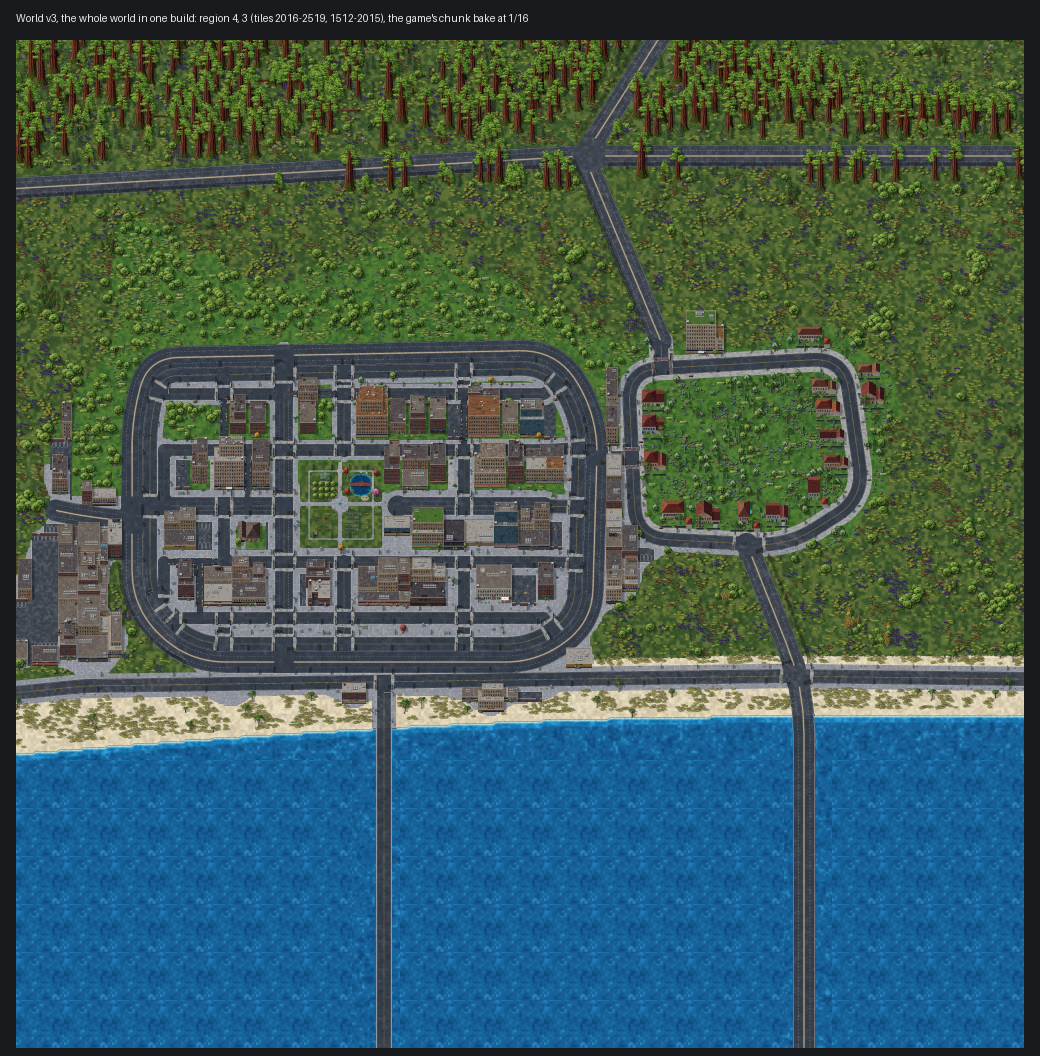
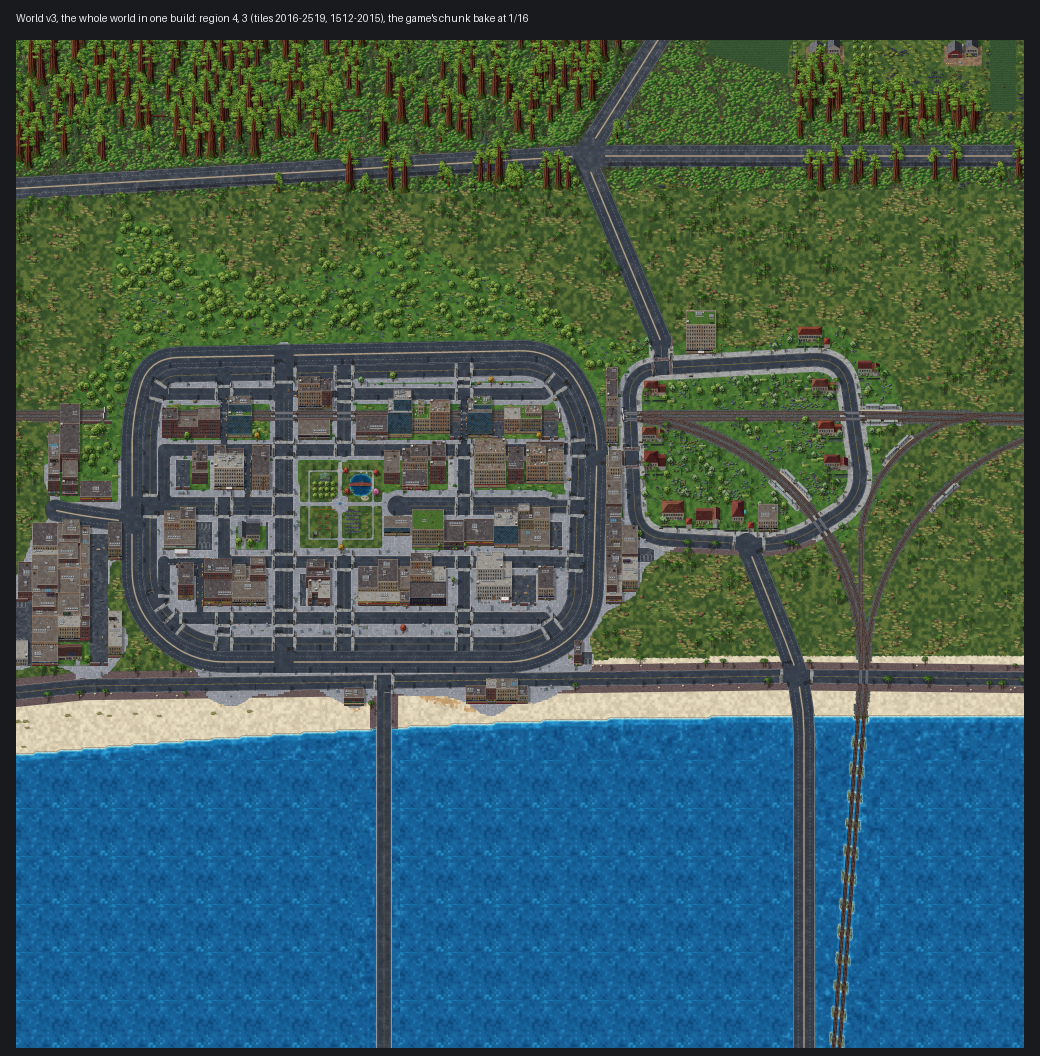
World v3 main line: the chunk bake draws every loop (a shared track once), the region files cut each loop's points, the picture draws the line (docs/world-v3-world.png) and region 4, 3 through the bake (Northshore Junction, docs/world-v3-world-r4-3.png); WORLD-V3.md 8.10, the DEVLOG
Claude-Session: https://claude.ai/code/session_015TdwbASoLBxZr1VoEZGToX

diff --git a/client/art2/game/statics.js b/client/art2/game/statics.js
@@ -2319,9 +2319,15 @@ function zw(G, x, y, c, n, z, f) {
 // railway: stations, portals, crossings
 // ================================================================================================
 function addRail(c, I) {
-  const R = c.M.rail;
+  // (World v3's main line is a list of loops, M.rails: what two loops share - a platform, a tunnel mouth, a crossing's
+  // signals at the same spot - is put once)
+  const seen = new Set(), once = (x, y, k = '') => { const key = `${Math.round(x / 16)},${Math.round(y / 16)}${k}`; if (seen.has(key)) return false; seen.add(key); return true; };
+  for (const R of c.M.rails || [c.M.rail]) addRailLoop(c, I, R, c.M.rails ? once : () => true);
+}
+function addRailLoop(c, I, R, once) {
   if (!R || !R.pts) return;
   for (const st of R.stations || []) {
+    if (!once(st.x, st.y, st.side)) continue;
     if (st.under) {
       const k = st.kiosk;
       if (k) {   // (SU5-B: the stairs down inside green iron railings, globe lamps and the lit train sign along the back)
@@ -2352,12 +2358,13 @@ function addRail(c, I) {
   const pts = R.pts, n = pts.length;
   for (let i = 0; i < n; i++) {
     const p = pts[i], q = pts[(i + 1) % n];
-    if (!!p.under === !!q.under) continue;
+    if (!!p.under === !!q.under || !once(p.x, p.y, 'p')) continue;
     const a = Math.atan2(q.y - p.y, q.x - p.x) + (p.under ? PI : 0), hd = qa(a, 32);
     put(I, vitem(`ptl:${hd.toFixed(3)}`, 'portal', [100], p.x, p.y, hd, [67, 52]));
   }
   // level crossings: the signal posts (the barrier arms are live: items carry `xing`)
   for (const x of R.crossings || []) {
+    if (!once(x.x, x.y, 'x')) continue;
     const ta = x.a ?? 0, ux = Math.cos(ta), uy = Math.sin(ta), nx = -uy, ny = ux, off = (x.hw || 80) + 24;
     for (const sg of [-1, 1]) {
       const px = x.x + ux * sg * off + nx * sg * 46, py = x.y + uy * sg * off + ny * sg * 46, hd = qa(ta + (sg < 0 ? PI : 0), 16);

diff --git a/client/art2/game/groundbake.js b/client/art2/game/groundbake.js
@@ -605,10 +605,16 @@ const RAIL_HB = 30;                                    // half width of the ball
 function railField(C) {
   const { M, b, WX0, WY0 } = C;
   b.lS.fill(0); b.lV.fill(1e9);
-  const R = M.rail;
+  C.railBridge = [];
+  // (World v3's main line is a list of loops, M.rails: two loops on the same track draw it once - a later one takes a
+  // pixel only where it is clearly the nearer track - so the sleepers keep one loop's spacing)
+  const list = M.rails || [M.rail];
+  for (let li = 0; li < list.length; li++) railLoop(C, list[li], li ? 6 : 0);
+}
+function railLoop(C, R, bias) {
+  const { b, WX0, WY0 } = C;
   if (!R || !R.pts) return;
   const P = R.pts, n = P.length, X1 = WX0 + WN, Y1 = WY0 + WN, rr = RAIL_HB + 2;
-  C.railBridge = [];
   for (let i = 0; i < n; i++) {
     const a = P[i], c = P[(i + 1) % n];
     if (a.under || c.under) continue;
@@ -621,7 +627,7 @@ function railField(C) {
         const X = WX0 + px + 0.5 - a.x, i2 = py * WN + px;
         let t = (X * sx + Y * sy) / L2; t = t < 0 ? 0 : t > 1 ? 1 : t;
         const dx = X - sx * t, dy = Y - sy * t, d = Math.sqrt(dx * dx + dy * dy);
-        if (d > RAIL_HB || d >= Math.abs(b.lV[i2])) continue;
+        if (d > RAIL_HB || d >= Math.abs(b.lV[i2]) - bias) continue;
         b.lV[i2] = X * nx + Y * ny; b.lS[i2] = s0 + t * sl;
         b.aux[i2] |= A_RAIL; C.hasRail = 1;
         if (bridge) b.sub[i2] = 1; else b.sub[i2] = 0;

diff --git a/shared/regionpack.js b/shared/regionpack.js
@@ -46,6 +46,9 @@ export const REGIONAL = {
   brickWalls: 'tile', marina: 'px', wayside: 'px', restSpots: 'px',
   // (format 2: the railway's points; a list inside a field, by its path - the levels' deck segments, by their middle)
   railPts: 'px', 'levels.segs': 'seg',
+  // (World v3's main line: each loop's points - m.rail is the first loop, the others are m.rails'; today's rail.pts is
+  // railPts, a reference, so nothing here moves for today's world)
+  'rail.pts': 'px', 'rails.1.pts': 'px', 'rails.2.pts': 'px', 'rails.3.pts': 'px', 'rails.4.pts': 'px', 'rails.5.pts': 'px', 'rails.6.pts': 'px', 'rails.7.pts': 'px',
 };
 // prop index -> its solid entry, as the generator keeps propSolid (shared/map.js: m.propSolid.set(e.pi, e))
 function solidIndex(sp) { const by = new Map(); for (const arr of sp.values()) for (const e of arr) if (e && e.pi >= 0) by.set(e.pi, e); return by; }

diff --git a/docs/WORLD-V3.md b/docs/WORLD-V3.md
@@ -2324,3 +2324,106 @@ world: see "The page" below.
    one.
 7. **What the world itself lacks** (8.6's list): the railway (no trains, no stations), the roads off the islands, the
    mainland's districts; no ferries are planned at v3 (the ferry planner finds no routes).
+
+### 8.10 Stage 3, step 3: the main line and its trains (2026-10-10, H30)
+
+The owner (part 5): "I want the main train system to loop around the entire world and cover a large stretch. Maybe the
+main train has two tracks in areas so you can catch it going either way, and it does kind of loop into itself so not
+sure how that might work with the trains not crashing into each other ... should be scenic the entire way". Ruling 4:
+double track everywhere, one track each way; junctions guarded by signals; three services, each both ways. Now the
+skeleton's `MAIN_LINE` is laid in the world build and its trains run on it. Nothing live changes: the world hash stays
+`6b6e16fdef9f`; the art hash changes (the bake draws a list of loops).
+
+**The line as loops** (`shared/world3-rail.js`, one call from `shared/world3-world.js`' new `rails` hook):
+- **A loop per service each way** (`mainLineLoops`): the service's run of segments (`SERVICES[].run`) joined end to
+  end, one way as written and the other reversed - six loops: the Grand Loop 10.76 / 10.74 km (11 stops), the Bay
+  Loop 4.89 / 4.85 km (8), the Harbor Line 2.66 / 2.63 km (6). Every corner is turned on an arc (`roundLoop`: the
+  skeleton's `linePath` with a radius per corner - 300 m, 200 m on the gulf's segments, the tighter of the two at a
+  junction - and the closing corner too), so where a service turns off another's segment at a junction it curves off
+  on its own arc: a turnout.
+- **Double track:** each loop's track is its path offset 48 px to the right of the way it runs (`TRACK_OFF`): a loop
+  running a segment one way is always on that segment's track for that way, 96 px (3 tiles) from the other way's.
+  Two loops running the same segment the same way share its track (the same arcs to the point); where a loop crosses
+  the other way's track at a junction it crosses it at grade (a diamond).
+- **The tunnels** (the skeleton's stretches, as distances along the loop) are `under`: the track below ground, as
+  today's subway stretch (nothing laid on top; the trains are drawn underground).
+
+**The railway passes take a list of lines** (`shared/map.js`): `OPTS.rails(m)` hands the generator a list of
+`{ pts, stations: [{ name, x, y }], side }`; `reserveRail(m, pts, line)` and `buildRailway(m, pts, line)` run for each
+(the track bed, the bridge decks over water, the gated level crossings where a road crosses it, the underpasses where
+it meets a highway at grade - `UNDERPASS_RAMP` either side - and the stations), each line's stations found as today's
+are (`stationIndex`, kept per line), its platforms on `side` (1: the right of the way it runs, the outer side - so a
+double track has one platform each side), and a station's map point (its POI) shared by every loop that stops there on
+that side. `m.rails` is the list and `m.rail` the first loop. Today's world is the one-loop case, as it was:
+`m.railPts`, `RAIL_STATIONS` through `QX`/`QY`, `m.railStationIdx`, the side by what's in the way.
+
+**What's laid** (the world build, seed 1337): the six loops' points (146,000 of them, every 8 px); 18-29 level crossings
+on each loop (the arterials and the places' streets it meets), the underpasses under the highways at grade (the Grand
+Loop 1,138 points, 284 m), the gulf on decks (the Bay Loop 3,000 points: the Bay Bridge Line's crossing, the Cedar
+Bridge, the East Toll Bridge, the lagoon), the skeleton's six tunnels (the Grand Loop 1.2 km under the North Ridge, the
+Long Reach and the peaks; the tunnel under Metro City's core), 31 station map points. The build takes about 1.5 s
+more (23 s in all with the other helpers on the cores). `shared/regionpack.js` cuts each loop's points into the region
+files (`'rail.pts'`, `'rails.1.pts'` ... - today's `rail.pts` is `railPts`, a reference: nothing moves for today's world).
+
+**The trains** (`server/systems/trains.js`): with more than one loop (`map.rails`) each loop gets two trains
+(`LOOP_TRAINS`), placed at its stations; a train runs its own loop (`t.r`), and everything that reads a train's line
+reads its loop (`railOf`: driving, placing the cars, its stations and stops, the arrivals, boarding and alighting, the
+ride's HUD, the timetable's run times). **The signals** (`signals`): the track is cut into 32 px cells - a train's
+footprint is its track and 24 px either side, so the two tracks of the double track, 96 px apart, never share a cell -
+and a train holds the cells under it and ahead of it as far as it could need to stop (its braking distance and the
+block headway). It runs only onto cells it holds, so no two trains are ever on the same cell: none runs into another,
+none meets one head on. **A junction** (`boxesOf`: the cells where another loop's track passes on another heading or a
+few px aside - a diamond, a turnout - not where two loops run the same track the same way) is taken whole, with a
+train's length of clear track beyond it, or not at all: a train never stops inside a junction, so two trains at a
+junction can't hold each other up for good. Today's world: one loop, no signals - its trains run exactly as before
+(`test/trains.test.js`, 19 of 19).
+Measured over 20 minutes of game time: all twelve trains ran (12.5-17 km each), stopped at every one of their stations
+in order (a round of the Bay Loop about every 6-7 minutes, of the Grand Loop about every 13), held at a signal 1-19 s in all;
+no train stood still for good.
+
+**The art:** the chunk bake draws every loop (`client/art2/game/groundbake.js` `railLoop`: a later loop takes a pixel
+only where it is clearly the nearer track, so a track two loops share is drawn once and its sleepers keep their
+spacing; `statics.js` `addRailLoop`: a platform, a tunnel mouth or a crossing's signals that two loops share are put
+once).
+
+**The test** (`test/world3rail.test.js`, one world build as the server builds it, about 40 s): a loop per service each
+way, every stop a station on it with its platform on the outer side; on Coast West the two tracks 96 px apart; the
+track bed (no track over open water off a deck, the bed under the rest); the gulf on decks; the Grand Loop's tunnels;
+level crossings on every loop and the underpasses; loops through every junction; one map point per station place; and
+the trains run five minutes of game time: every loop has its trains, each runs and stops at its stations, and no two
+trains' cars ever overlap (their outlines, checked every other tick).
+
+**The pictures:** `docs/world-v3-world.png` (the main line drawn green over the tiles: dark in its tunnels, dark grey-green
+under the highways, pale on its decks; the stations white) and `docs/world-v3-world-r4-3.png` (region 4, 3 through
+the chunk bake: Northshore Junction, the Bay Bridge Line's trestle over the north channel). What looks right: the Grand
+Loop round the whole mainland - along the coast, up through the desert past Copper Gulch and Lucky Mesa, under the
+North Ridge, across Willow Valley, up through the Gorge into the peaks and down through Timber Bend; the double track
+everywhere; the junction's two curves (from the west and from the east) joining the Bay Bridge Line south, each a
+double track; the trestle across the channel beside the Bay Bridge; the Cedar Line over the Cedar Bridge. What looks
+wrong:
+- **Northshore Junction is in the town:** the coast line runs straight through the Northshore Loop (its houses either
+  side, level crossings on its loop road) and the junction's curves cut across the loop's south-east corner; the line
+  also runs through the top of Northshore's grid at grade. The junction wants to be clear of the town (or the town's
+  loop moved), the hub station designed as one station with four platforms beside it.
+- **The towns are crossed at grade:** in the gulf the Harbor Line runs at grade through Metro City's grid west of
+  Metro Junction (the Harbor Loop has 27-29 level crossings), and the Bay Bridge Line crosses the Shore Road and the
+  beach at grade before its trestle. Ruling 2 says bridges in towns: the line in a cutting or a tunnel through Metro
+  City (the core's tunnel carried on to the Harbor Bridge), or the streets bridged over it.
+- **The tunnels have no mouths in the hills:** a skeleton tunnel is the track below ground (as today's subway); the
+  mountains are flat ground, so the line just vanishes and comes back - the bores want `shared/tunnels.js`' cover and
+  portals, as the roads' have (8.7).
+- **The Northshore station** stands at a different spot for each loop (2449, 1702 for the Grand Loop; 2402-2478,
+  1718-1739 for the others' curves), on the curves.
+
+**What's left** (in order):
+1. **What still reads only the first loop** (`off0`): the waiting crowds and the commuters walking to a platform
+   (`gatherCommuters`, `callWaiting`), the level crossings' gates and the drivers at them (`updateCrossings`,
+   `crossingLimit`, `world.xing`, the client's `M.rail.crossings`), the NPCs keeping off the line (`railThreat`,
+   `railBlocked`, `keepPedsSafe`), the station boards and the platform clocks (`timetable`, `stationBoard`: a station POI
+   is the first loop's that made it). Each wants its loops: crossings by loop and index (the welcome's and the `xing`
+   event's), a station's boards listing every service that stops there.
+2. The junctions designed (above), the towns' crossings as bridges or cuttings, the tunnels' mouths and cover.
+3. The client's trains (`client/render/trains.js`) and its minimap read `map.rail` (the first loop) for the line's
+   drawing; the cars themselves come from the server.
+4. More trains (two a loop now: the Grand Loop's stations see one about every 6-7 minutes each way), and a timetable that
+   spaces the loops' trains through the shared junctions.

diff --git a/docs/DEVLOG.md b/docs/DEVLOG.md
@@ -7263,3 +7263,46 @@ test/world3biomes.test.js (new), docs/world-v3-world.png.
 Tests: test/world3biomes.test.js (one world build: districts, ground, densities, room on the skeleton's lines, no
 repeat in the desert, Northshore at its beach), test/world3.test.js (the live world's hash unchanged),
 test/world3land.test.js, test/world3world.test.js.
+
+## 2026-10-10 · World v3, stage 3, step 3: the main line and its trains
+
+Asked (the owner, part 5 of docs/WORLD-V3.md: "I want the main train system to loop around the entire world and cover
+a large stretch. Maybe the main train has two tracks in areas so you can catch it going either way, and it does kind
+of loop into itself so not sure how that might work with the trains not crashing into each other ... should be scenic
+the entire way"; ruling 4: double track everywhere, one track each way, junctions guarded by signals, three services
+each both ways): lay the skeleton's main line in the whole-world build - double track, the junctions, its bridges and
+tunnels, the level crossings and underpasses, the stations with a platform each side - with the railway code taking a
+list of lines (today's world the one-loop case, unchanged); run its trains, each service on its own track, signals
+holding a train at a junction; tests; the pictures.
+
+What it does (docs/WORLD-V3.md 8.10 has the numbers):
+- **The loops** (shared/world3-rail.js): each service both ways is a loop - its segments joined end to end, every
+  corner and junction turned on an arc (300 m, 200 m in the gulf), offset 48 px to the right of the way it runs, so
+  each way has its own track 96 px from the other's; services the same way along a segment share its track; where
+  one turns off it curves away (a turnout), where it crosses the other way's track it crosses at grade (a diamond).
+  The skeleton's tunnels are the track below ground.
+- **The generator** (shared/map.js): `reserveRail` and `buildRailway` take a line (`OPTS.rails`: the world build's
+  hook) - the bed, the decks over water, the gated level crossings, the underpasses under the highways, the stations
+  (a platform on each loop's outer side: one each side of the double track; one map point a station place) - into
+  `m.rails`, `m.rail` the first. Today's world: as it was (the world hash 6b6e16fdef9f).
+- **The trains** (server/systems/trains.js): two a loop (twelve), each running its own loop and stopping at its
+  stations, riding as today. **The signals:** a train holds the 32 px cells under it and ahead as far as it could need
+  to stop, and moves only onto its own, so no two trains share a cell - none runs into another or meets one head on;
+  a junction (a diamond or a turnout) is taken whole with a train's length clear beyond it, or not at all, so trains
+  never wait inside one and can't lock each other out. Twenty minutes of game time: all twelve run and call at every
+  station, held at signals 1-19 s.
+- **The art:** the chunk bake draws every loop (a track two loops share once).
+- **The region files** cut each loop's points into the regions (today's files unchanged).
+- **Left** (8.10): the crowds, the crossing gates, the NPCs' care at the line and the station boards still read the
+  first loop only; Northshore Junction lies across the Northshore Loop's houses; the line crosses Metro City's grid
+  at grade; the tunnels want their mouths and cover.
+
+Files: shared/world3-rail.js (new), shared/world3-world.js (the `rails` hook), shared/map.js (the railway passes by
+line), server/systems/trains.js (the loops, the signals), shared/regionpack.js (the loops' points by region),
+client/art2/game/groundbake.js, client/art2/game/statics.js (every loop), tools/world3-world-map.mjs (the main line
+drawn), test/world3rail.test.js (new), docs/world-v3-world.png, docs/world-v3-world-r4-3.png, docs/WORLD-V3.md 8.10.
+
+Tests: test/world3rail.test.js (one world build: the loops and their stops, the double track, the bed, the decks, the
+tunnels, the crossings and underpasses, the junctions, the station map points; five minutes of the trains: each runs
+and stops, no two cars of different trains ever overlap), test/trains.test.js (today's one loop, 19 of 19),
+test/world3server.test.js (the v3 world's region files read back into the same city; the server's world runs on it).
